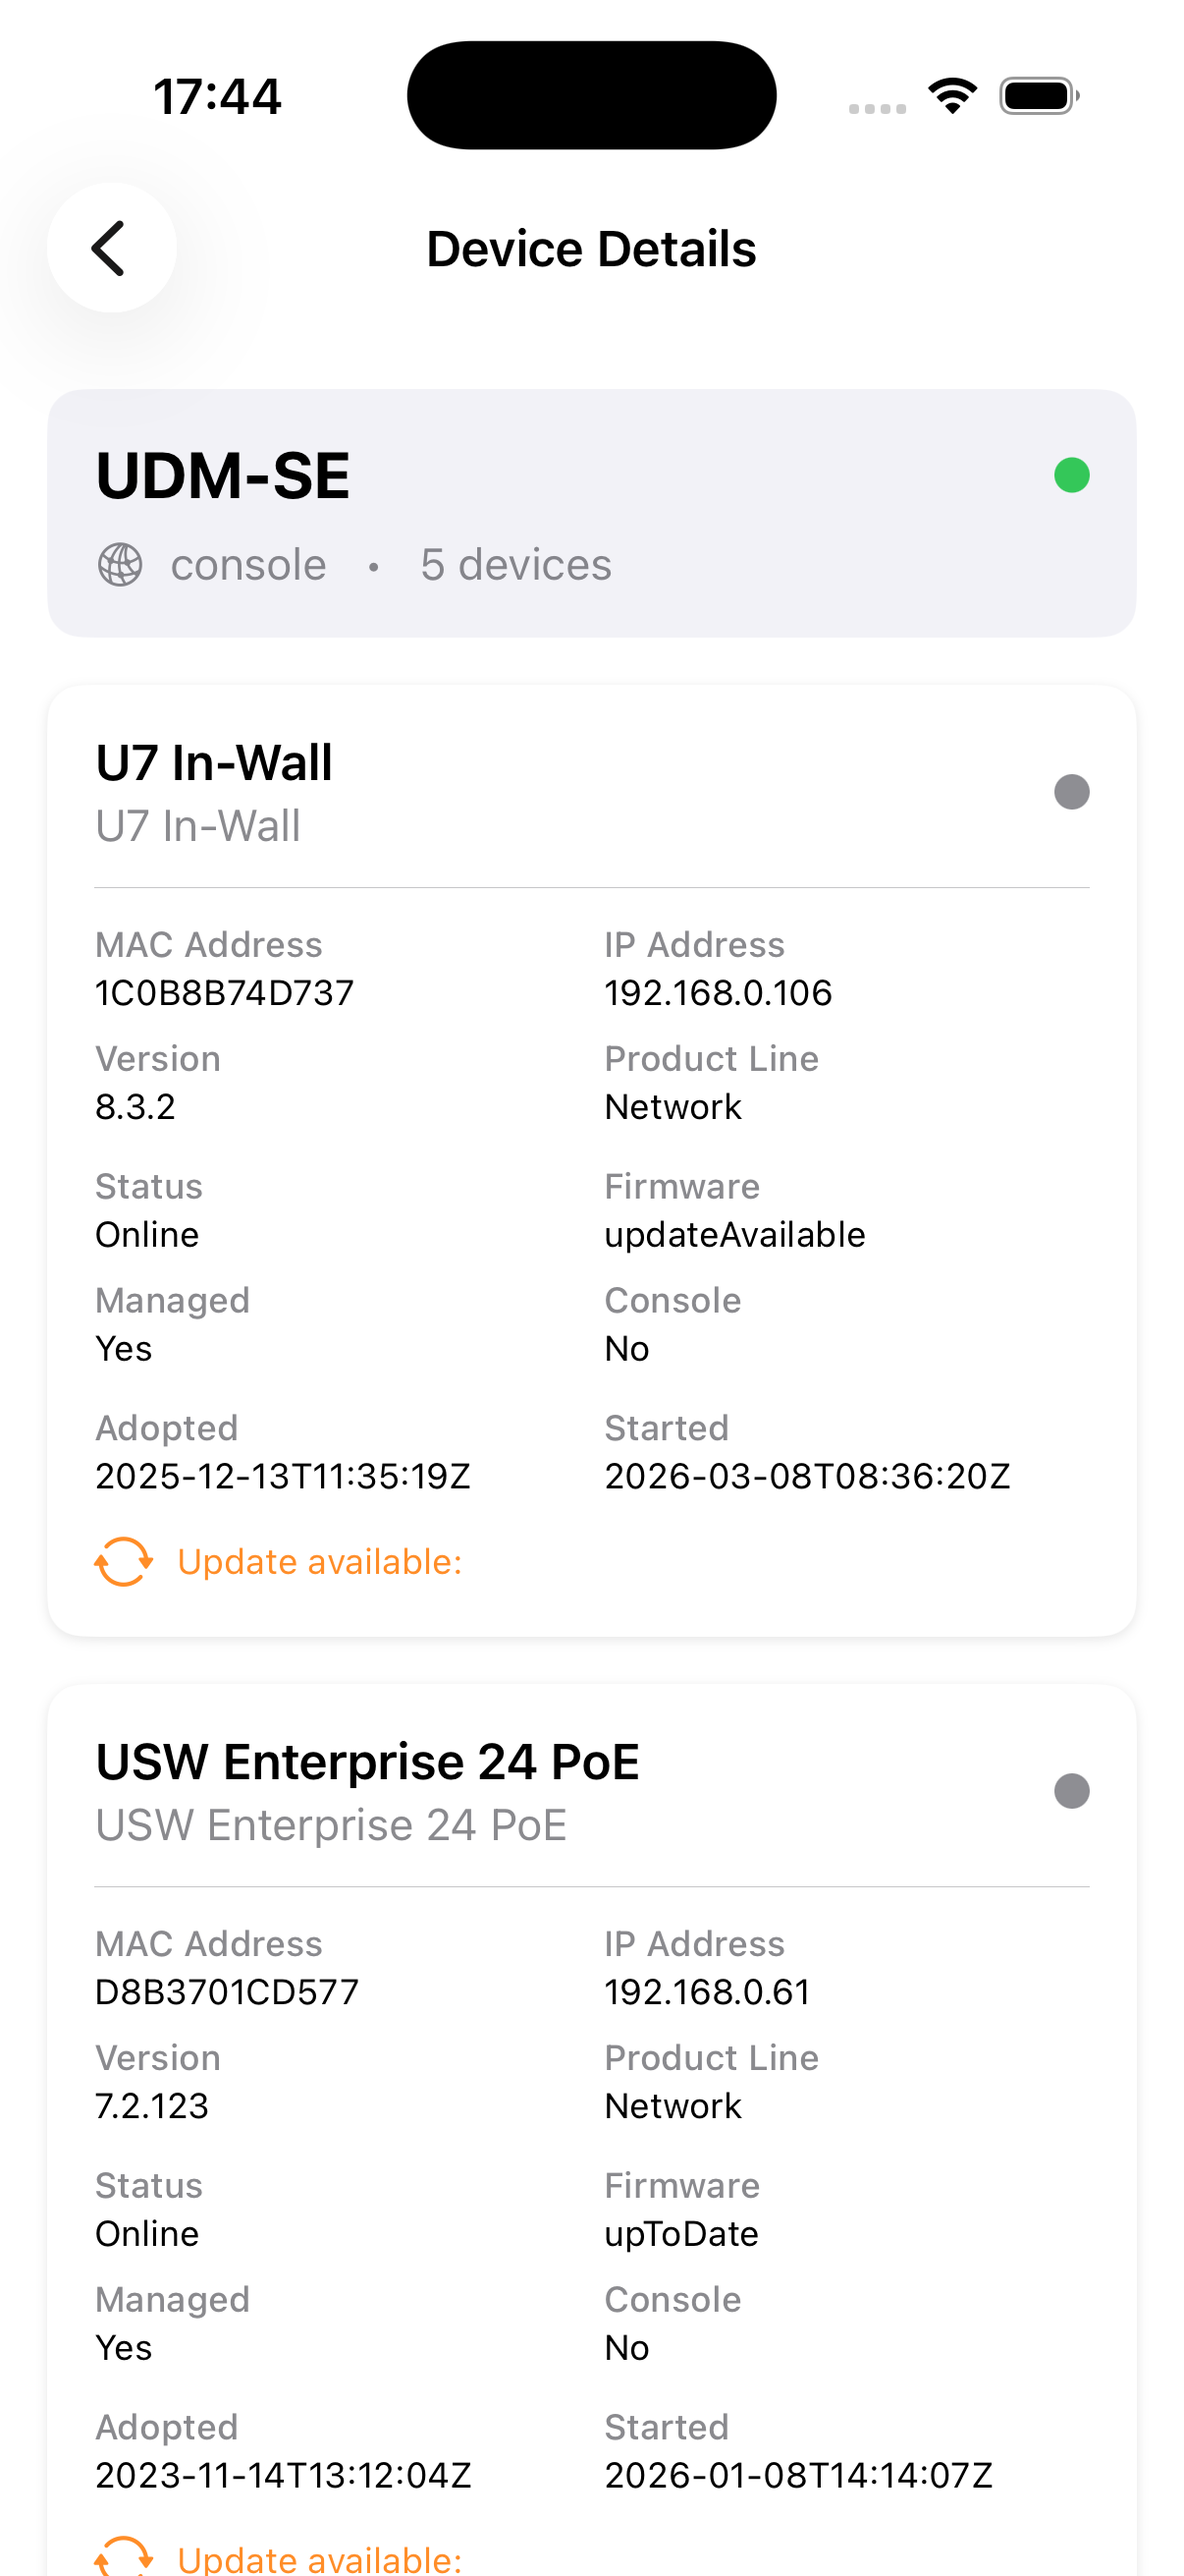
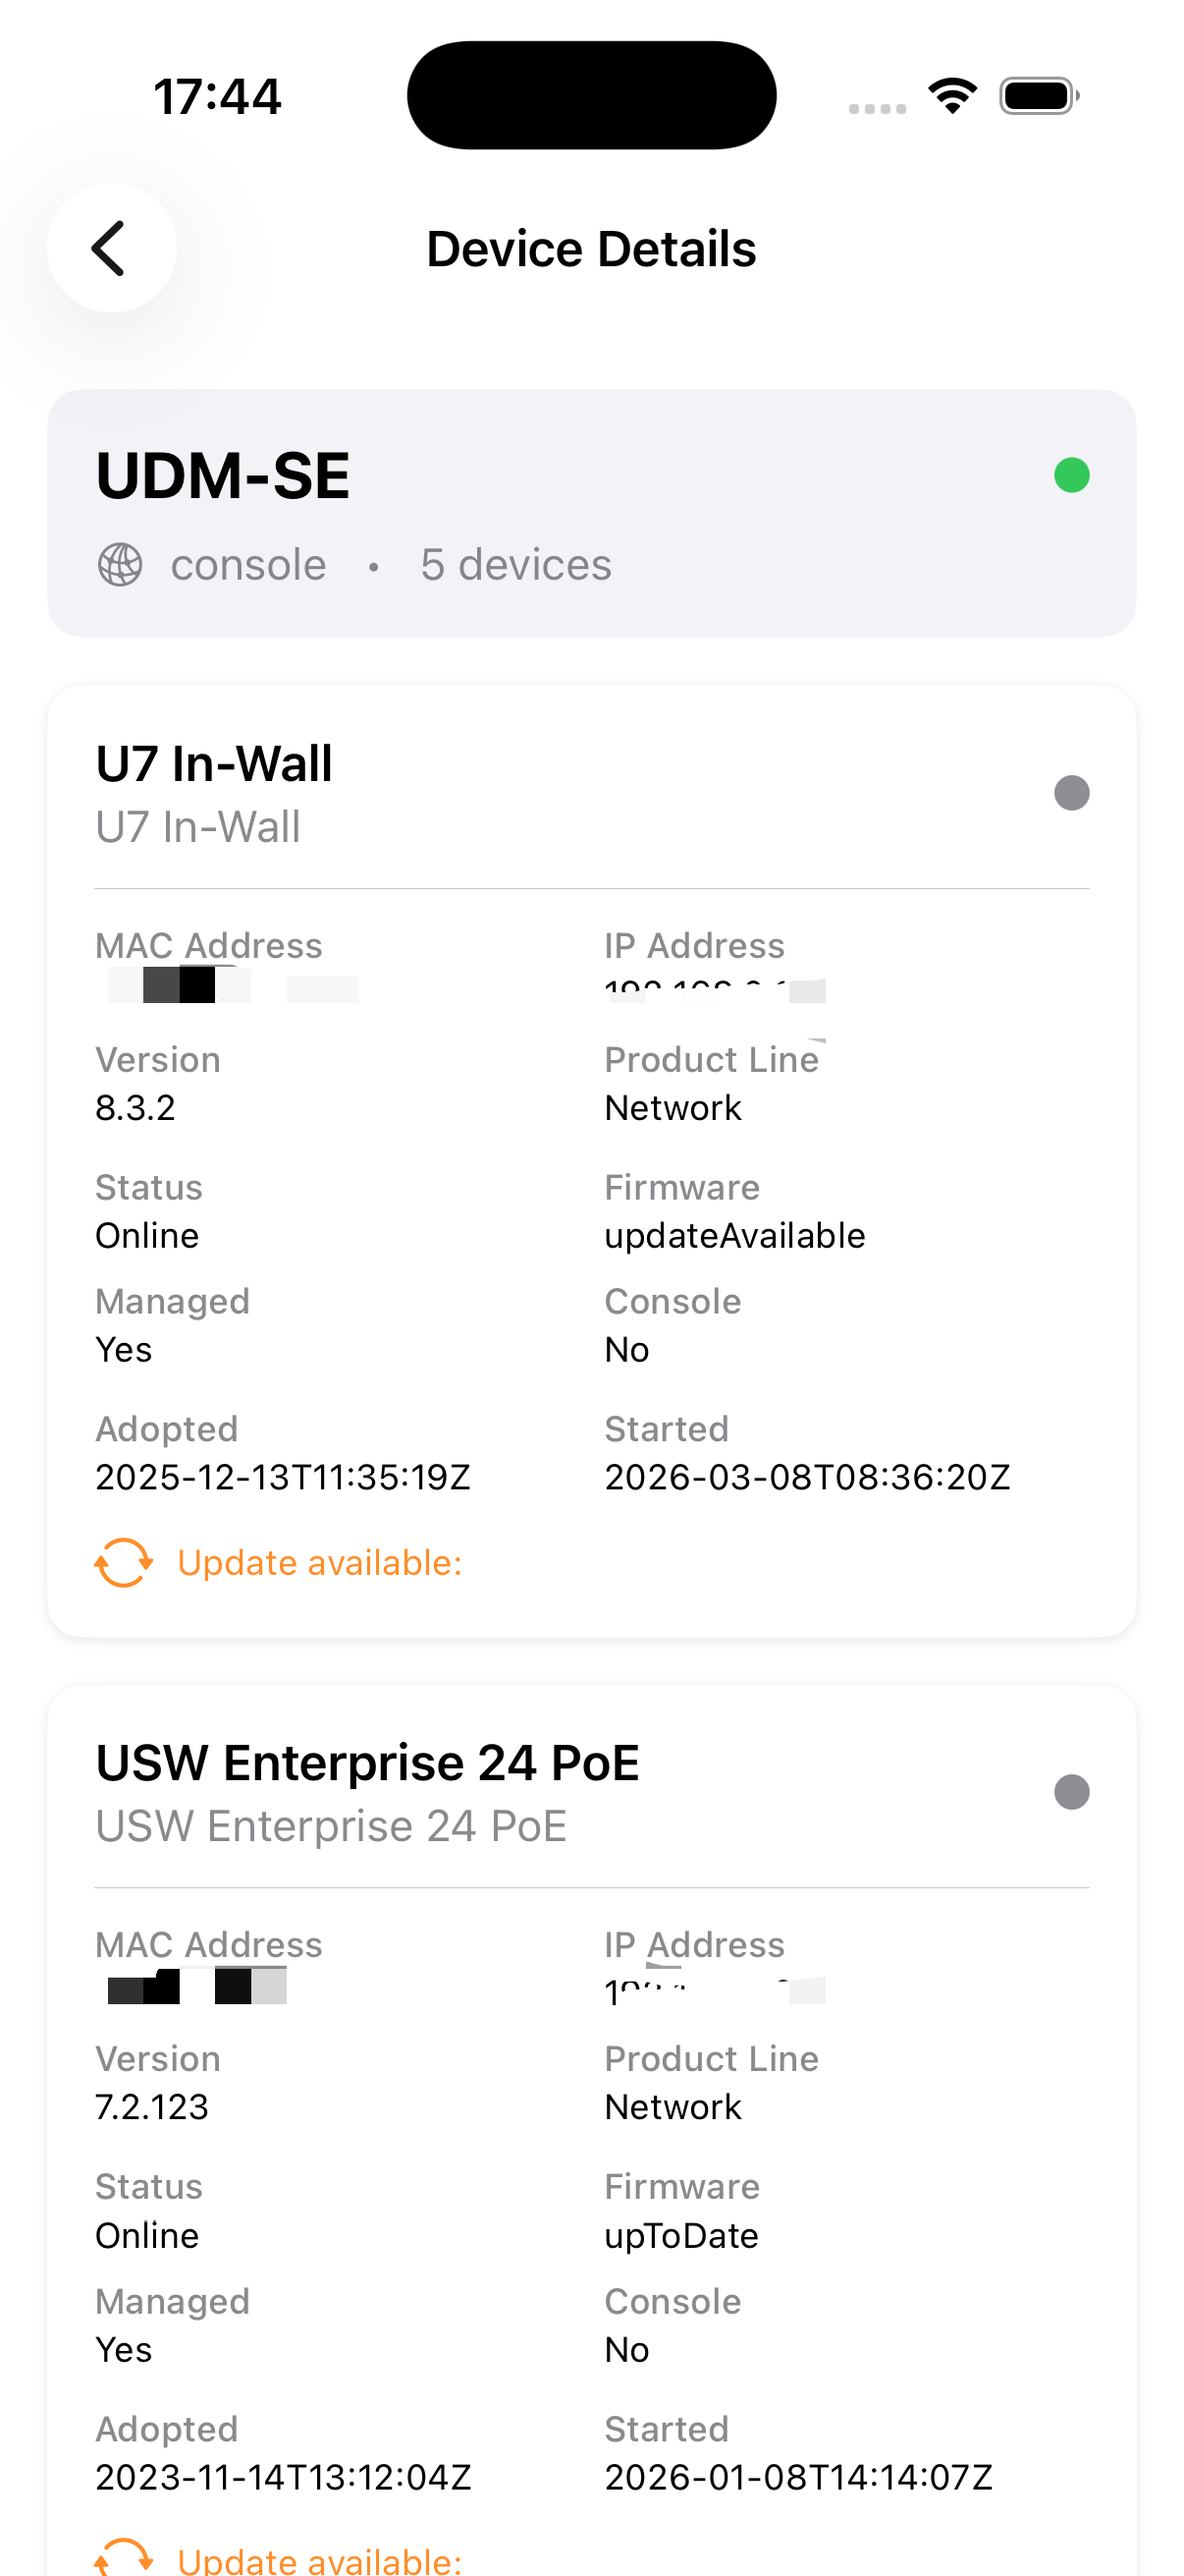
docs: update README with masked screenshots
- Add privacy notice for screenshots
- Update screenshot descriptions
- Remove .DS_Store from Screenshots directory

diff --git a/README_CN.md b/README_CN.md
@@ -27,10 +27,12 @@ UBNT Monitor 让你可以随时随地监控和管理你的 UniFi 网络设备：
 
 ## 📸 应用截图
 
+> 以下截图中的敏感信息（IP 地址、MAC 地址、API Key 等）已做打码处理
+
 | 设备列表 | 设备详情 | 设置页面 |
 |:--------:|:--------:|:--------:|
 | ![设备列表](Screenshots/device-list.png) | ![设备详情](Screenshots/device-detail.png) | ![设置页面](Screenshots/settings.png) |
-| 云端设备列表 | 设备详细信息 | 连接模式设置 |
+| **云端设备列表** - 查看所有 UniFi 设备状态 | **设备详情** - 查看固件版本、IP、MAC 等详细信息 | **设置页面** - 配置云端/局域网连接模式 |
 
 ---
 

diff --git a/README.md b/README.md
@@ -126,10 +126,12 @@
 
 ## 📸 截图
 
+> 以下截图中的敏感信息（IP 地址、MAC 地址、API Key 等）已做打码处理
+
 | 设备列表 | 设备详情 | 设置页面 |
 |:--------:|:--------:|:--------:|
 | ![Device List](Screenshots/device-list.png) | ![Device Detail](Screenshots/device-detail.png) | ![Settings](Screenshots/settings.png) |
-| 云端设备列表 | 设备详细信息 | 连接模式设置 |
+| **云端设备列表** - 查看所有 UniFi 设备状态 | **设备详情** - 查看固件版本、IP、MAC 等详细信息 | **设置页面** - 配置云端/局域网连接模式 |
 
 ---
 
